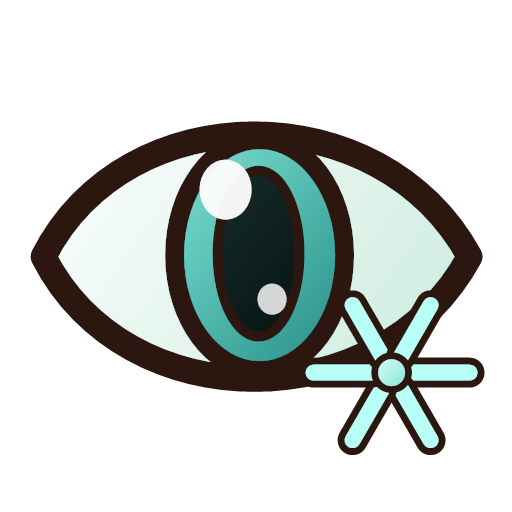
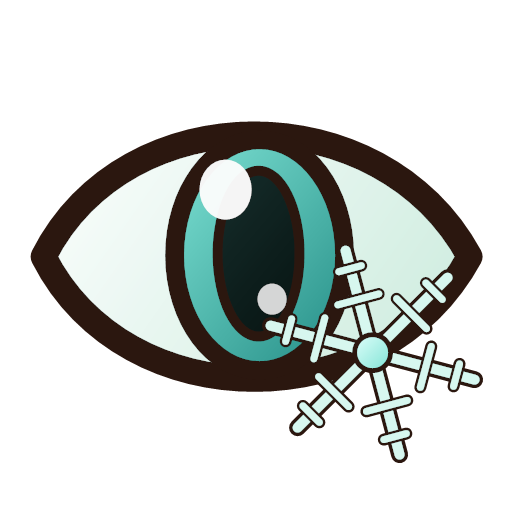
Переработаны иконки перков

Changed region(s): [[0.5, 0.4688, 0.9688, 0.9062]]

diff --git a/README.md b/README.md
@@ -291,7 +291,11 @@ python Tools/generate_music.py
 поверх спрайта получает золотое кольцо. Хилка использует отдельный спрайт
 `healing.png` (сердце с крестом, `BaseRadius` 20): высота картинки равна диаметру
 хитбокса, а форма остаётся эллипсом. Все иконки — PNG 512×512 с прозрачным фоном;
-повторно их рисует `Tools/generate_icons.ps1` (PowerShell и System.Drawing).
+повторно их рисует `Tools/generate_icons.ps1` (PowerShell и System.Drawing): общие хелперы
+рисуют лапу лягушки одним силуэтом (`Draw-FrogHand` — ладонь-овал и три пальца с круглыми
+подушечками, как у жабы в игре), мусорную банку (`Draw-TrashCan`), яблоко и грушу
+(`Draw-Apple`, `Draw-Pear`) и дуговые стрелки, у которых
+наконечник считается по концу дуги и её касательной (`New-ArcArrowHead`), а не задаётся числом.
 
 В основном режиме движение и столкновения считает **Rapier2D**: у каждого предмета
 есть `RigidBody2D` с выпуклой формой по силуэту иконки, боковые границы — статические тела.
